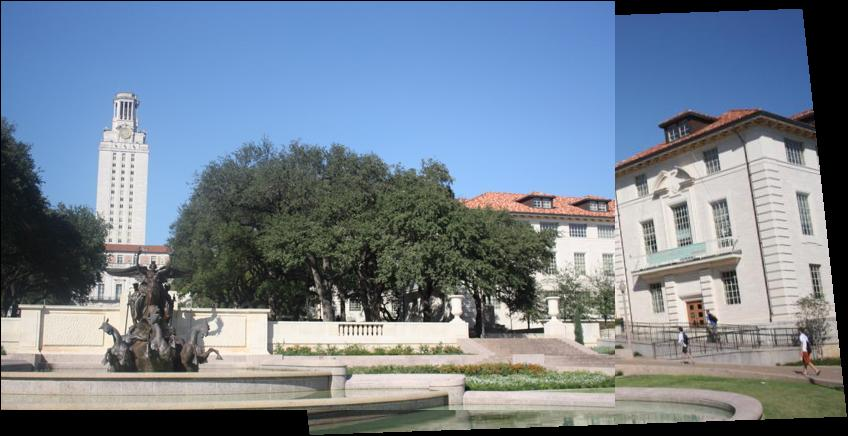
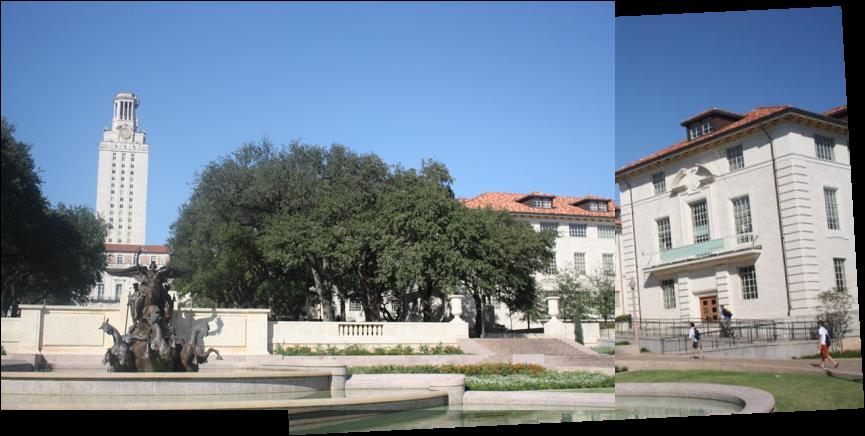
update

Changed region(s): [[0.0613, 0.0, 1.0, 1.0], [0.0307, 0.7156, 0.0613, 0.8349]]

diff --git a/code/RANSACFit.m b/code/RANSACFit.m
@@ -85,11 +85,6 @@ function dists = ComputeError(H, pt1, pt2, match)
 %           match to the given transformation matrix.
 %           Error is measured as the Euclidean distance between (transformed pt1)
 %           and pt2 in homogeneous coordinates.
-    
-    N = size(match,1);
-    pt1_conv=(H*([pt1(match(:, 1),:)';ones(1,N)]))';
-    dists=sqrt(sum((pt1_conv-[pt2(match(:, 2),:)';ones(1,N)]').^2,2));
-
 
     % hint: If you have an array of indices, MATLAB can directly use it to
     % index into another array. For example, pt1(match(:, 1),:) returns a
@@ -98,6 +93,10 @@ function dists = ComputeError(H, pt1, pt2, match)
     % confusing, but understanding it will make your code simple and fast.)
     dists = zeros(size(match,1),1);
 
+    N = size(match,1);
+    pt1_conv=(H*([pt1(match(:, 1),:)';ones(1,N)]))';
+    dists=sqrt(sum((pt1_conv-[pt2(match(:, 2),:)';ones(1,N)]').^2,2));
+  
 %%%%%%%%%%%%%%%%%%%%%%%%%%%%%%%%%%%%%%%%%%%%%%%%%%%%%%%%%%%%%%%%%%%%%%%%%%%%%%%%
 %                                                                              %
 %                                 END YOUR CODE                                %

diff --git a/code/MultipleStitch.m b/code/MultipleStitch.m
@@ -163,24 +163,19 @@ function T = makeTransformToReferenceFrame(i_To_iPlusOne_Transform, currentFrame
 %   reference frame are not adjacent, T will need to be calculated.
 
 
-if refFrameIndex> currentFrameIndex
-    T=i_To_iPlusOne_Transform{currentFrameIndex};
+T=eye(3);
+
+while refFrameIndex> currentFrameIndex
+    T=i_To_iPlusOne_Transform{currentFrameIndex}*T;
     currentFrameIndex=currentFrameIndex+1;
-    while (refFrameIndex> currentFrameIndex)
-        T=i_To_iPlusOne_Transform{currentFrameIndex}*T;
-        currentFrameIndex=currentFrameIndex+1;
-    end
 end
 
-if currentFrameIndex> refFrameIndex
-    T=pinv(i_To_iPlusOne_Transform{currentFrameIndex-1});
+while currentFrameIndex> refFrameIndex
+    T=pinv(i_To_iPlusOne_Transform{currentFrameIndex-1})*T;
     currentFrameIndex=currentFrameIndex-1;
-    while (currentFrameIndex> refFrameIndex)
-        T=pinv(i_To_iPlusOne_Transform{currentFrameIndex-1})*T;
-        currentFrameIndex=currentFrameIndex-1;
-    end
 end
     
+
 
 % HINT 1: There are two separate cases to consider: currentFrameIndex <
 % refFrameIndex (this is the easier case), and currentFrameIndex >

diff --git a/code/StitchTester.m b/code/StitchTester.m
@@ -16,7 +16,7 @@ clc; close all; clc;
 %% Load a list of images (Change file name if you want to use other images)
 imgList = dir('../data/yosemite*.jpg');
 
-saveFileName = 'yosemite.jpg';
+saveFileName = '../results/yosemite.jpg';
 
 %% Add path
 addpath('KeypointDetect');
